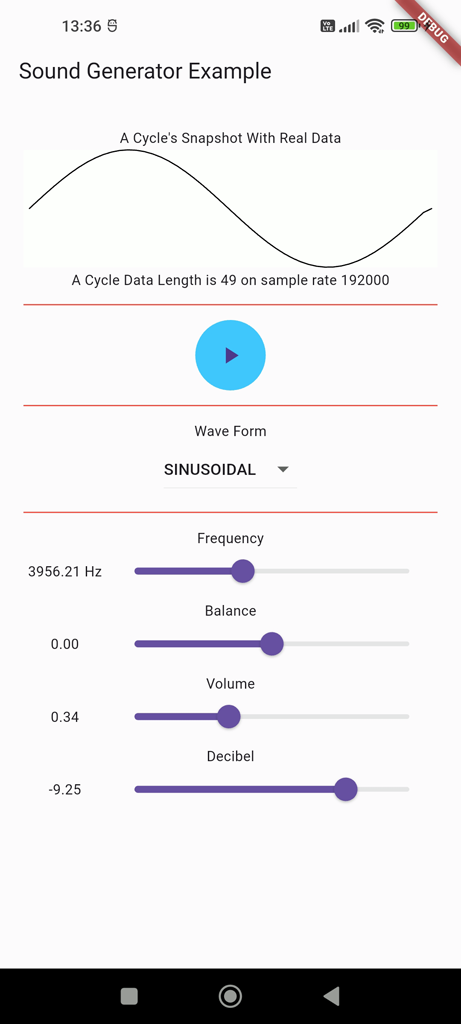
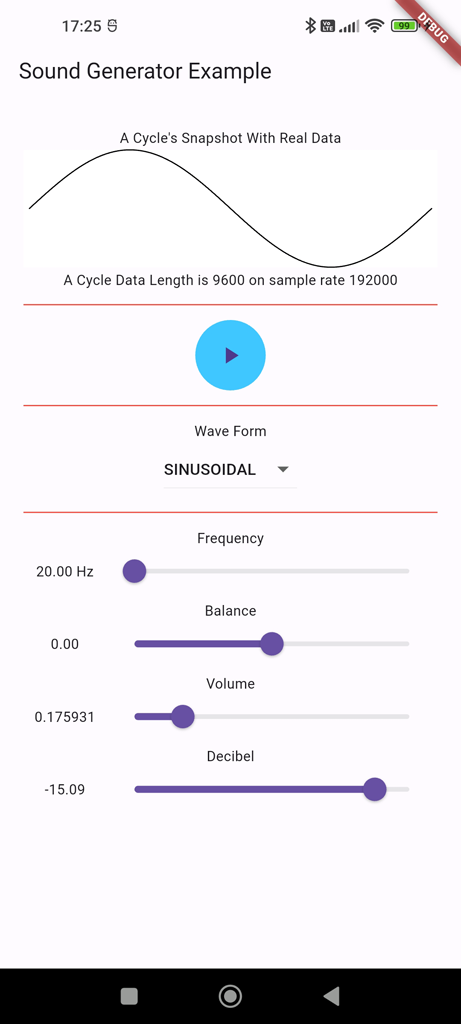
Updated the decibel setting to range from 0 to -120.

diff --git a/example/lib/main.dart b/example/lib/main.dart
@@ -208,7 +208,7 @@ class _MyAppState extends State<MyApp> {
                                 Expanded(
                                   flex: 2,
                                   child: Center(
-                                      child: Text(volume.toStringAsFixed(2))),
+                                      child: Text(volume.toStringAsFixed(6))),
                                 ),
                                 Expanded(
                                   flex: 8, // 60%
@@ -244,7 +244,7 @@ class _MyAppState extends State<MyApp> {
                                 Expanded(
                                   flex: 8, // 60%
                                   child: Slider(
-                                      min: -40,
+                                      min: -120,
                                       max: 0,
                                       value: dB,
                                       onChanged: (value) async {

diff --git a/android/src/main/java/io/github/mertguner/sound_generator/SoundGenerator.java b/android/src/main/java/io/github/mertguner/sound_generator/SoundGenerator.java
@@ -77,10 +77,10 @@ public class SoundGenerator {
         this.volume = volume;
 
         if(recalculateDecibel) {
-            if (volume >= 0.01f) {
+            if (volume >= 0.000001f) {
                 this.dB = 20f * (float) Math.log10(volume);
             } else {
-                this.dB = -40f;
+                this.dB = -120f;
             }
         }
 
@@ -94,9 +94,11 @@ public class SoundGenerator {
     }
 
     public void setDecibel(float dB) {
-        dB = Math.min(0, Math.max(-40, dB));
         this.dB = dB;
-        float lineerVolume = (float) Math.pow(10f, (dB / 20f));
+        float lineerVolume = (float) Math.pow(10f, (dB / 20f) );
+        if (lineerVolume < 0.000001f) {
+            lineerVolume = 0f;
+        }
         setVolume(lineerVolume, false);
     }
 

diff --git a/CHANGELOG.md b/CHANGELOG.md
@@ -59,3 +59,7 @@
 * Updated flutter libraries.
 * Added setDecibel function. (Thanks to https://github.com/LuizAlexandreSilva for the inspiration))
 * Update SoundGeneratorPlugin.swift for iOS sound wave change (thank you https://github.com/sharmaruchi30)
+
+## [0.0.13] - 20/01/2025
+
+* Updated the decibel setting to range from 0 to -120.
